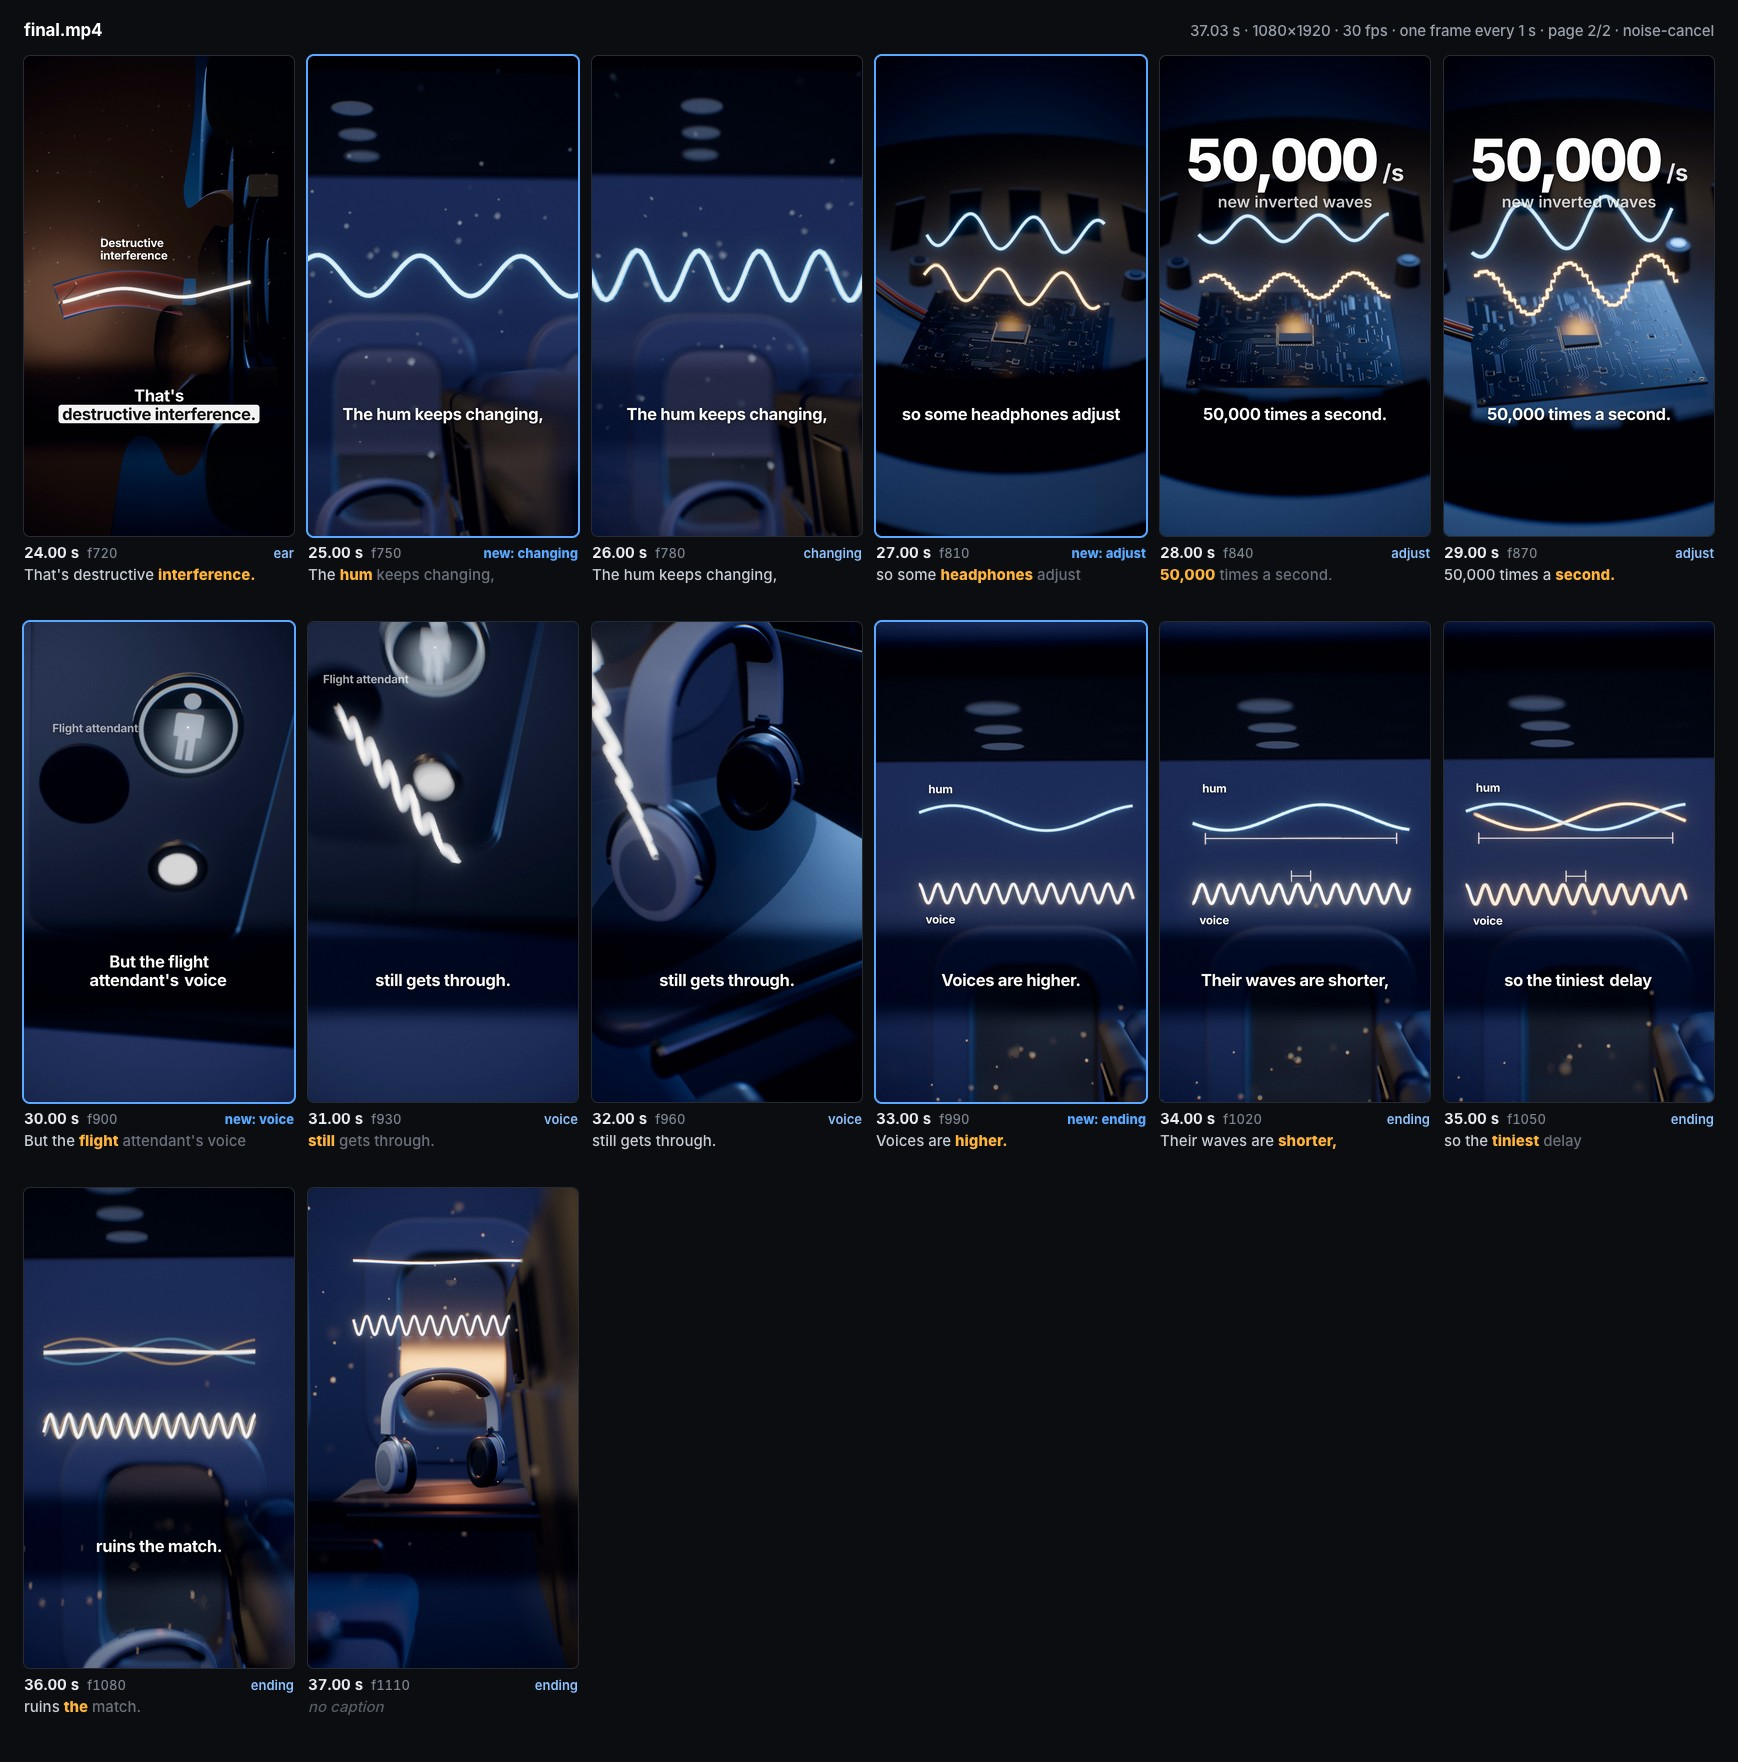
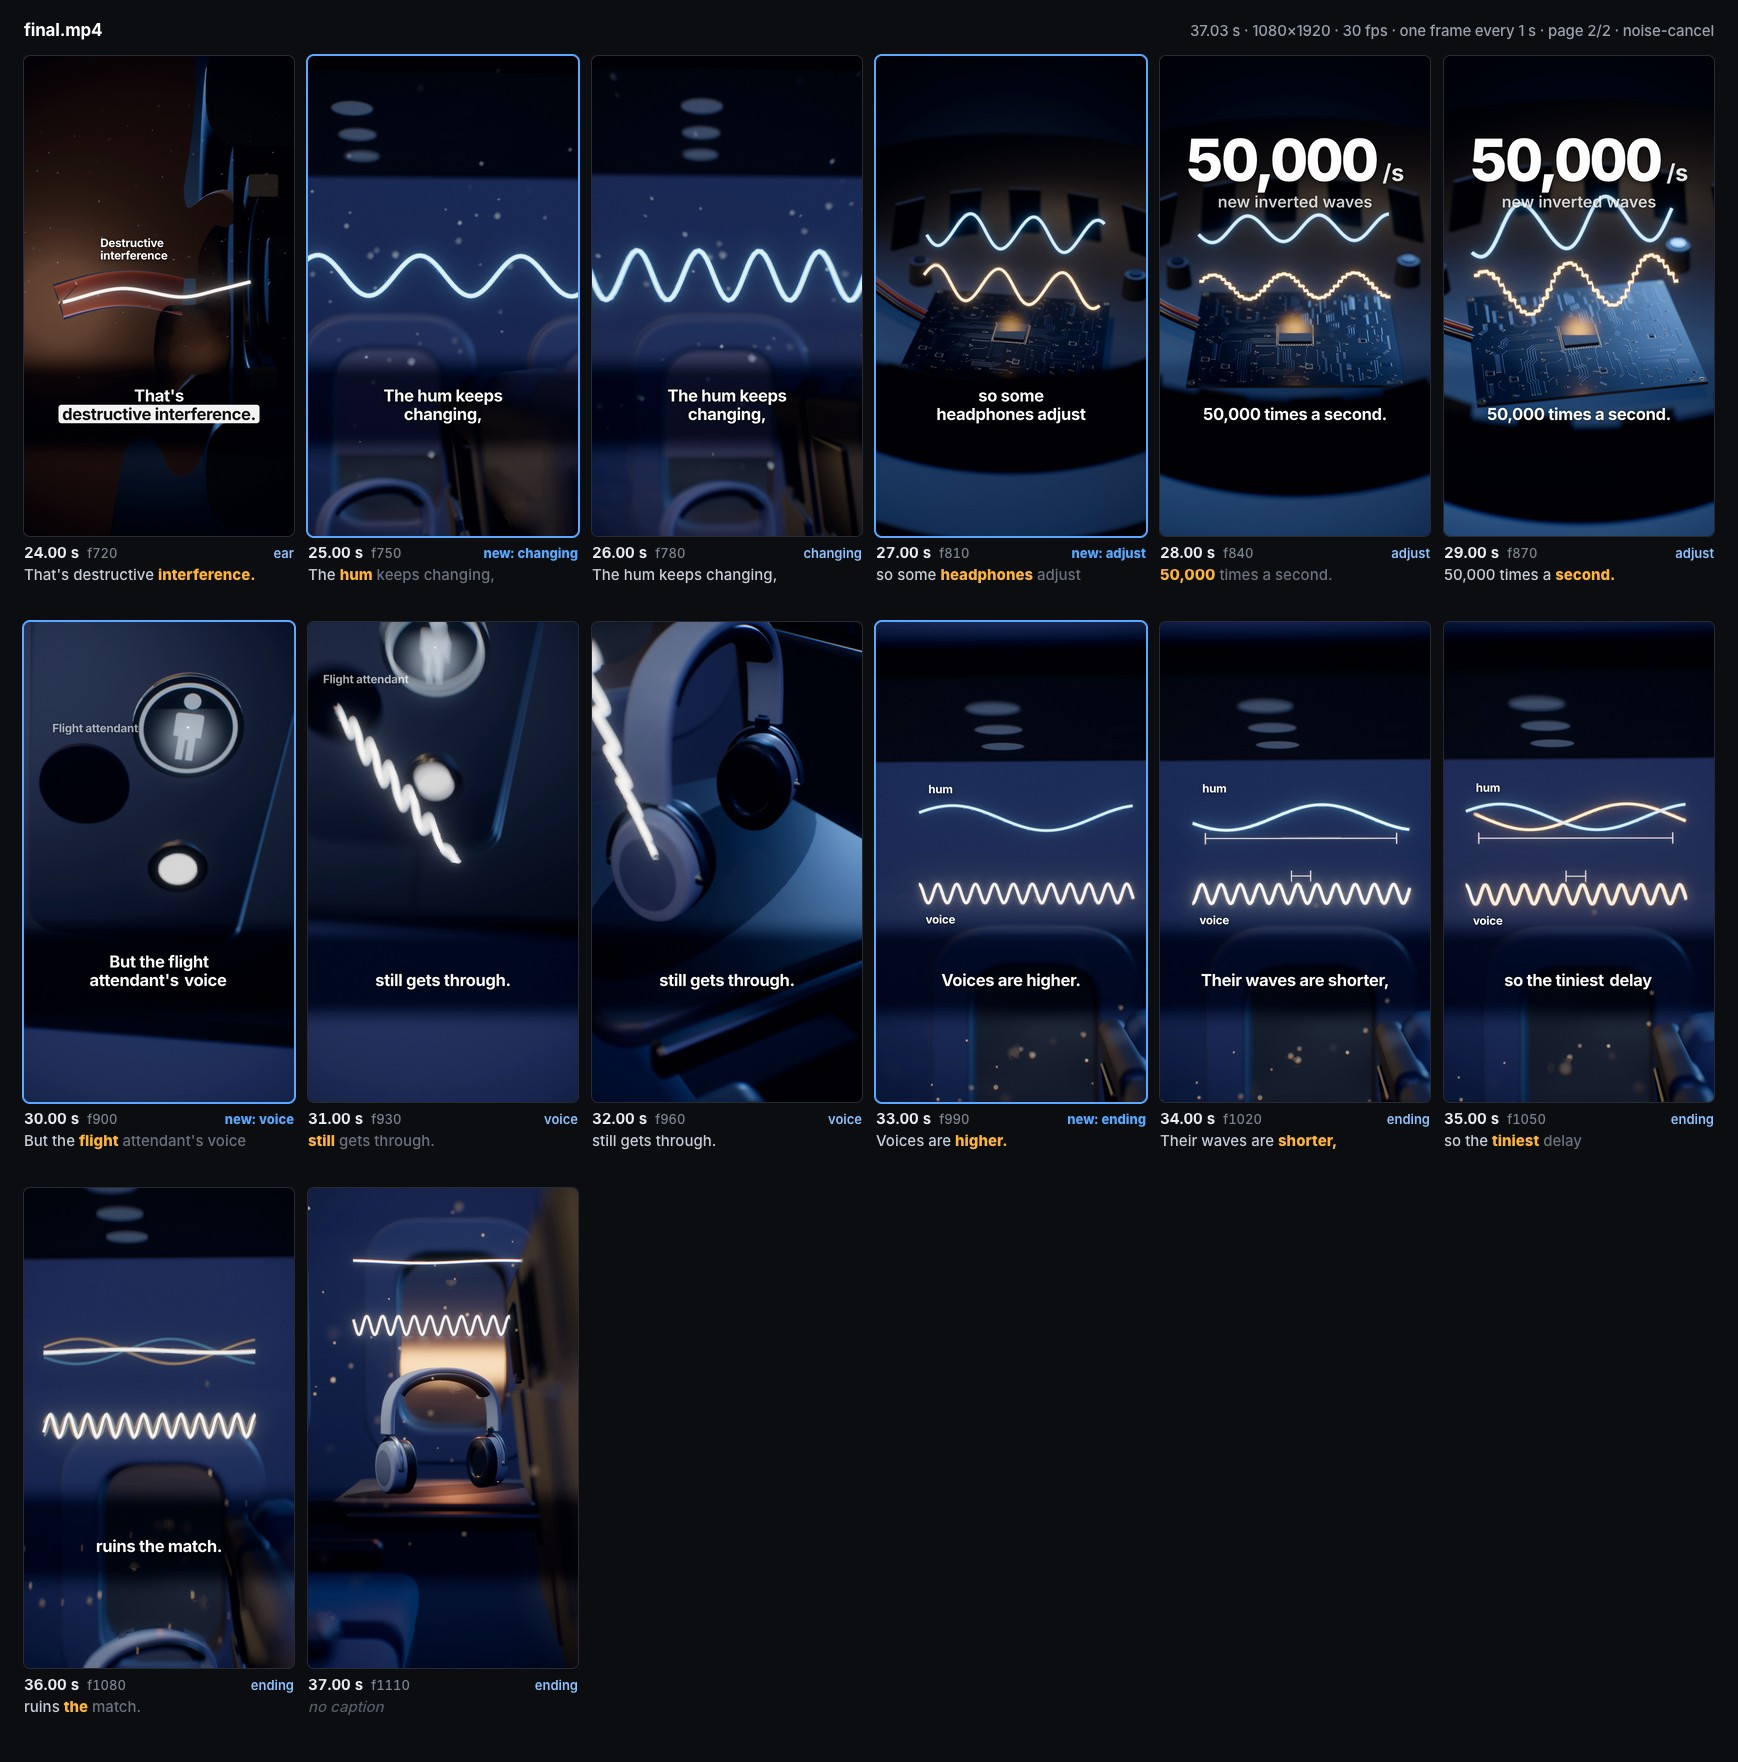
charles-3d-explainers: captions end left of the buttons; the example passes the new audit
The caption box could be 900 px wide, so a one-line caption could run from
x 90 to 990, under the like/comment/share column at x 940. It's now 800 px,
the widest a centred caption can be and still end at x 940. A longer chunk
wraps onto two balanced lines, as the chunker already allows. A wrapped box
fills its max width, which is what the audit measured on the hook ("Noise-
cancelling headphones" was already two lines; its box ran to x 990).

In examples/noise-cancel the stricter audit found two real faults:
- "Speaker" sat right of the driver, ending at x 1020 under the buttons; it
  now sits on the driver's left.
- "The hum keeps changing," ran one line past x 940. It now wraps, and its
  second line covered the lit seat backs and the light transition, so that
  shot shades its caption band at 0.8, as the voice shot does.

A full draft render now passes --audit. The contact sheets are rebuilt from
final-quality stills (39 stills; the full final takes about two hours).

Changed region(s): [[0.1554, 0.1873, 0.4971, 0.2497], [0.5282, 0.2185, 0.6525, 0.2497], [0.0932, 0.0936, 0.1243, 0.1249]]

diff --git a/skills/editing/charles-3d-explainers/examples/noise-cancel/shots/ear.js b/skills/editing/charles-3d-explainers/examples/noise-cancel/shots/ear.js
@@ -34,7 +34,8 @@ export default async function (k) {
   const tPlay = k.word('plays'), tEar = k.word('ear.'), tTwo = k.word('two waves'), tC = k.word('cancel') + 0.05, tOut = k.word('out.'), tI = k.word('destructive');
   const A = 2.4 * mm, lam = 10 * mm, w = 2 * Math.PI * 1.6, kk = (2 * Math.PI) / lam; // schematic: 2.5 crests in the canal
   const front = (t) => k.ramp(t, tPlay - 0.05, tEar + 0.05, 'inOutSine');               // the amber wave's front, 0..1 along the path
-  k.ui.label('Speaker', { anchor: hp.anchor('driverL'), side: 'right', offset: [150, -40], at: k.word('speaker') - 0.1, until: tPlay + 0.9 });
+  k.ui.label('Speaker', { anchor: hp.anchor('driverL'), side: 'left', offset: [-60, -90],   // left of the driver: on its right, the text ran under the like/comment column (x 940+)
+    at: k.word('speaker') - 0.1, until: tPlay + 0.9 });
   k.ui.label('Eardrum', { anchor: D.clone().add(V(0, -2.5 * mm, 0.6 * mm)), side: 'below', offset: [0, 90], at: tEar - 0.15, until: tTwo - 0.15 });
   // "The two waves": name them, in their own colours, above and below the canal; they go when the waves cancel
   const cm = path.getPointAt(0.66);

diff --git a/skills/editing/charles-3d-explainers/kit/engine/ui.css b/skills/editing/charles-3d-explainers/kit/engine/ui.css
@@ -31,8 +31,9 @@ html, body { margin: 0; padding: 0; background: #000; overflow: hidden; }
 .layer { position: absolute; inset: 0; }
 
 /* Captions: one line (sometimes two), centred at y ~1430, at most one highlighted word or phrase. Boxes hug their text
-   (centred, at most 900 px wide) so --audit measures the words, not the band. */
-.cap { position: absolute; left: 0; right: 0; margin: 0 auto; width: fit-content; max-width: calc(900px * var(--u)); text-align: center; font-weight: 700;
+   (centred, at most 800 px wide) so --audit measures the words, not the band. 800 px keeps a centred caption left of the
+   platform's buttons at x 940 (reel-spec.json); a longer chunk wraps onto two balanced lines. */
+.cap { position: absolute; left: 0; right: 0; margin: 0 auto; width: fit-content; max-width: calc(800px * var(--u)); text-align: center; font-weight: 700;
   font-size: calc(66px * var(--u)); line-height: 1.12; letter-spacing: -0.018em; text-shadow: var(--shadow); text-wrap: balance; isolation: isolate; }
 .cap .w { display: inline; }
 .cap .w.off { opacity: 0; }

diff --git a/skills/editing/charles-3d-explainers/examples/noise-cancel/shots/changing.js b/skills/editing/charles-3d-explainers/examples/noise-cancel/shots/changing.js
@@ -10,6 +10,7 @@ export default async function (k) {
   const V = (x = 0, y = 0, z = 0) => new THREE.Vector3(x, y, z);
   k.env('night', 0.55);
   k.fog(0.8);
+  k.post = { captionShade: 0.8 };                                // the light transition and the lit seat backs reach the caption band, under its two lines
   scene.add(nightSky(k));
   cabin(k, { rows: [-4, 3], windows: [-6, 6], shades: 0.62 }); // shades drawn: no bright horizon behind the caption
   k.rig({ keyPos: [-0.6, 2.1, 0.4], rimPos: [-2.4, 1.6, -1.4], target: [-1.0, 1.2, -0.3], keyScale: 0.2, rimScale: 0.6, fillScale: 0.45, soft: 0.6, shadowSize: 2 });

diff --git a/skills/editing/charles-3d-explainers/references/kit.md b/skills/editing/charles-3d-explainers/references/kit.md
@@ -302,7 +302,7 @@ global time 0 is fully on from the first frame (the hook). Content strings are H
 | `doodle(svg, o)` | SVG markup that draws itself on: `at`, `until`, `dur 0.6` (look.md: each element draws on in 0.3 to 0.8 s; give each element its own doodle on its word), `x 540` (centre), `y 760` (top), `width 520`, `color '#d6d5ca'` (warm off-white), `stroke 5` (screen px, whatever the viewBox), `wobble 1` (a slight hand-drawn wobble, about ±1.5 px in waves about 90 px long, fixed by `seed 1`; `0` = clean geometry), `glow true`. Strokes draw in document order with round caps and joins; fills are removed. |
 | `scaleBar(o)` | A scale bar for a zoom journey: its length written above a white bar with end ticks, stepping down an order of magnitude on each zoom word. `steps: [[t, label, px], ...]` (required; shot-local seconds in `k.ui`, global in `g.ui`): from each step's `t` the bar eases to `px` wide (layout px) and the label crossfades (the old one lifts out as the new one rises in), over 0.25 s. `x 540` (the bar's centre) with `align 'center'`, or `align 'left'` with `x 150` (its left end: the microscope corner, at about `y: 1265`), `y 1200` (the bar's centre line), `size 42` (the label, Inter 700, tabular digits), `stroke 4` (the bar's thickness; 14 px end ticks), `at` (it enters at its first step, or at `at` if later), `until`. Draws on from the centre (or the left end) in 0.35 s; fades and lifts out after `until`. Steps are sorted by time, so a `k.word` that matches an earlier word moves its step first. |
 
-Captions come from `project.json` (Inter 700 66 px, centred, at most 900 px wide; one line centred at y ~1432). A
+Captions come from `project.json` (Inter 700 66 px, centred, at most 800 px wide, so it ends left of the platform's buttons at x 940 and a longer chunk wraps onto two balanced lines; one line centred at y ~1432). A
 chunk fades in over 0.12 s with no slide. A highlight pill is 1.12 em tall with a 0.18 em radius. Its 0.22 em side
 padding is reserved from the start, so the line never reflows, and a -0.1 em margin takes half of it back: before the
 pill grows, the gap before the phrase is about 1.5 spaces, not 2. The 'text' style reserves nothing and keeps plain
